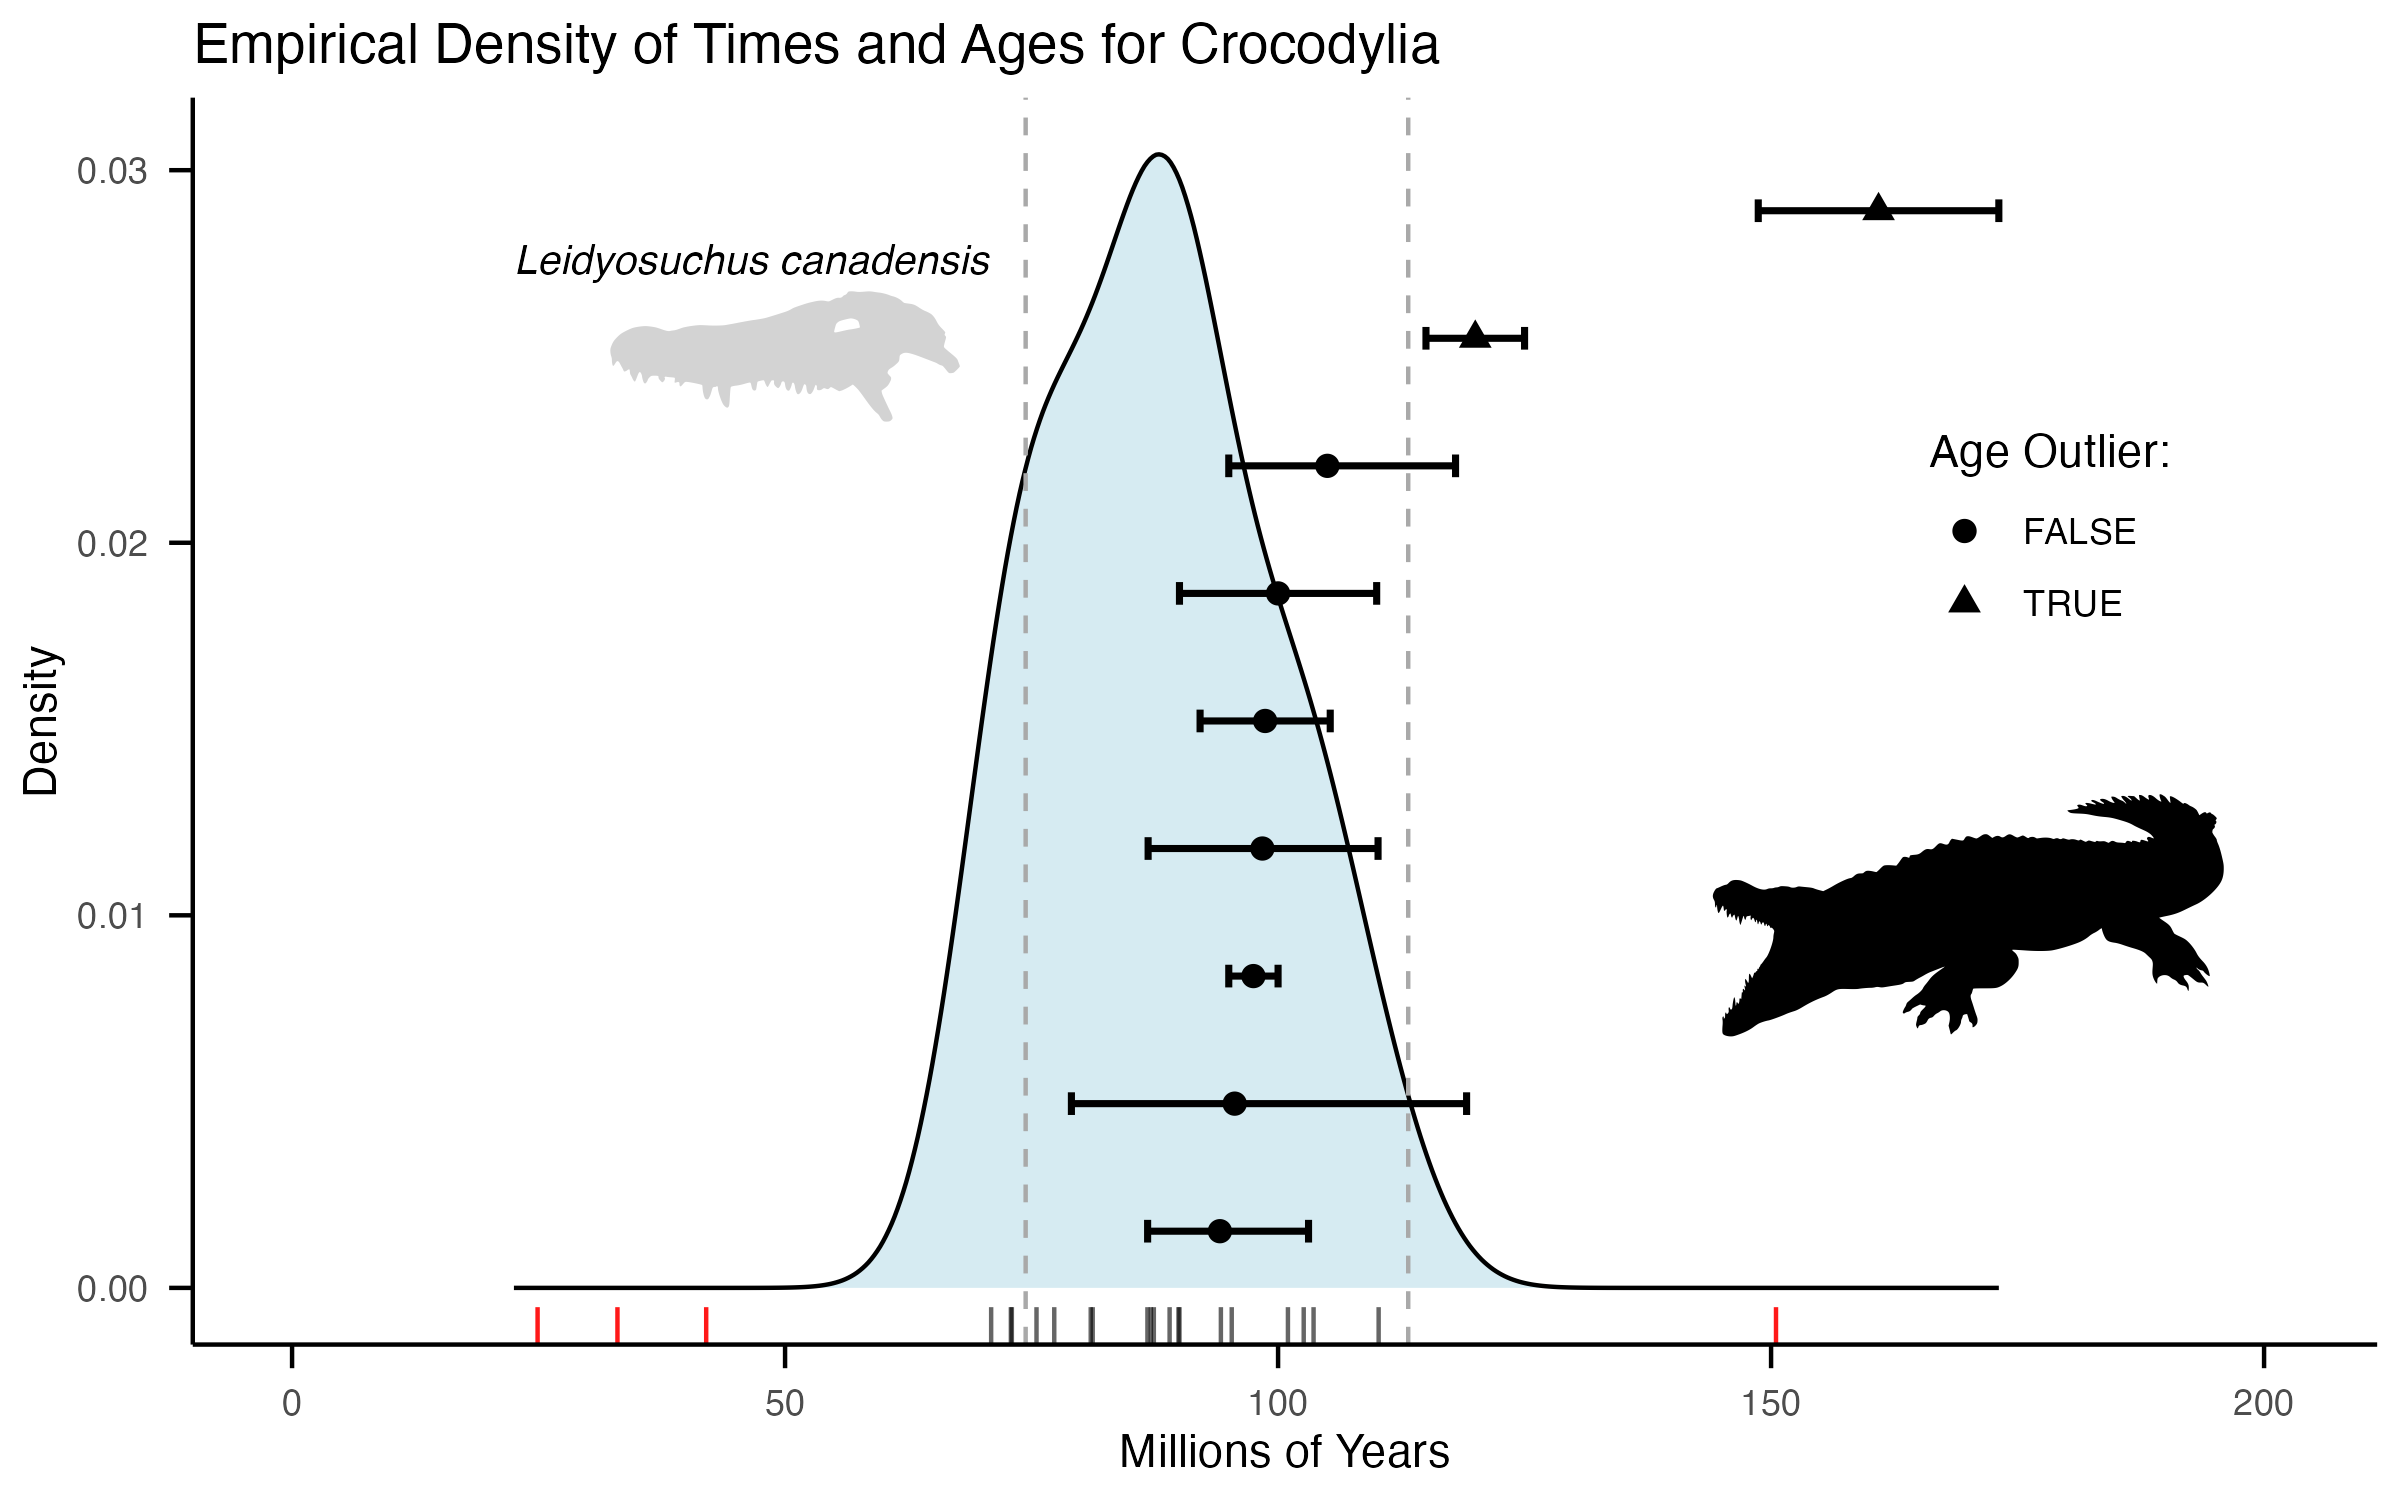
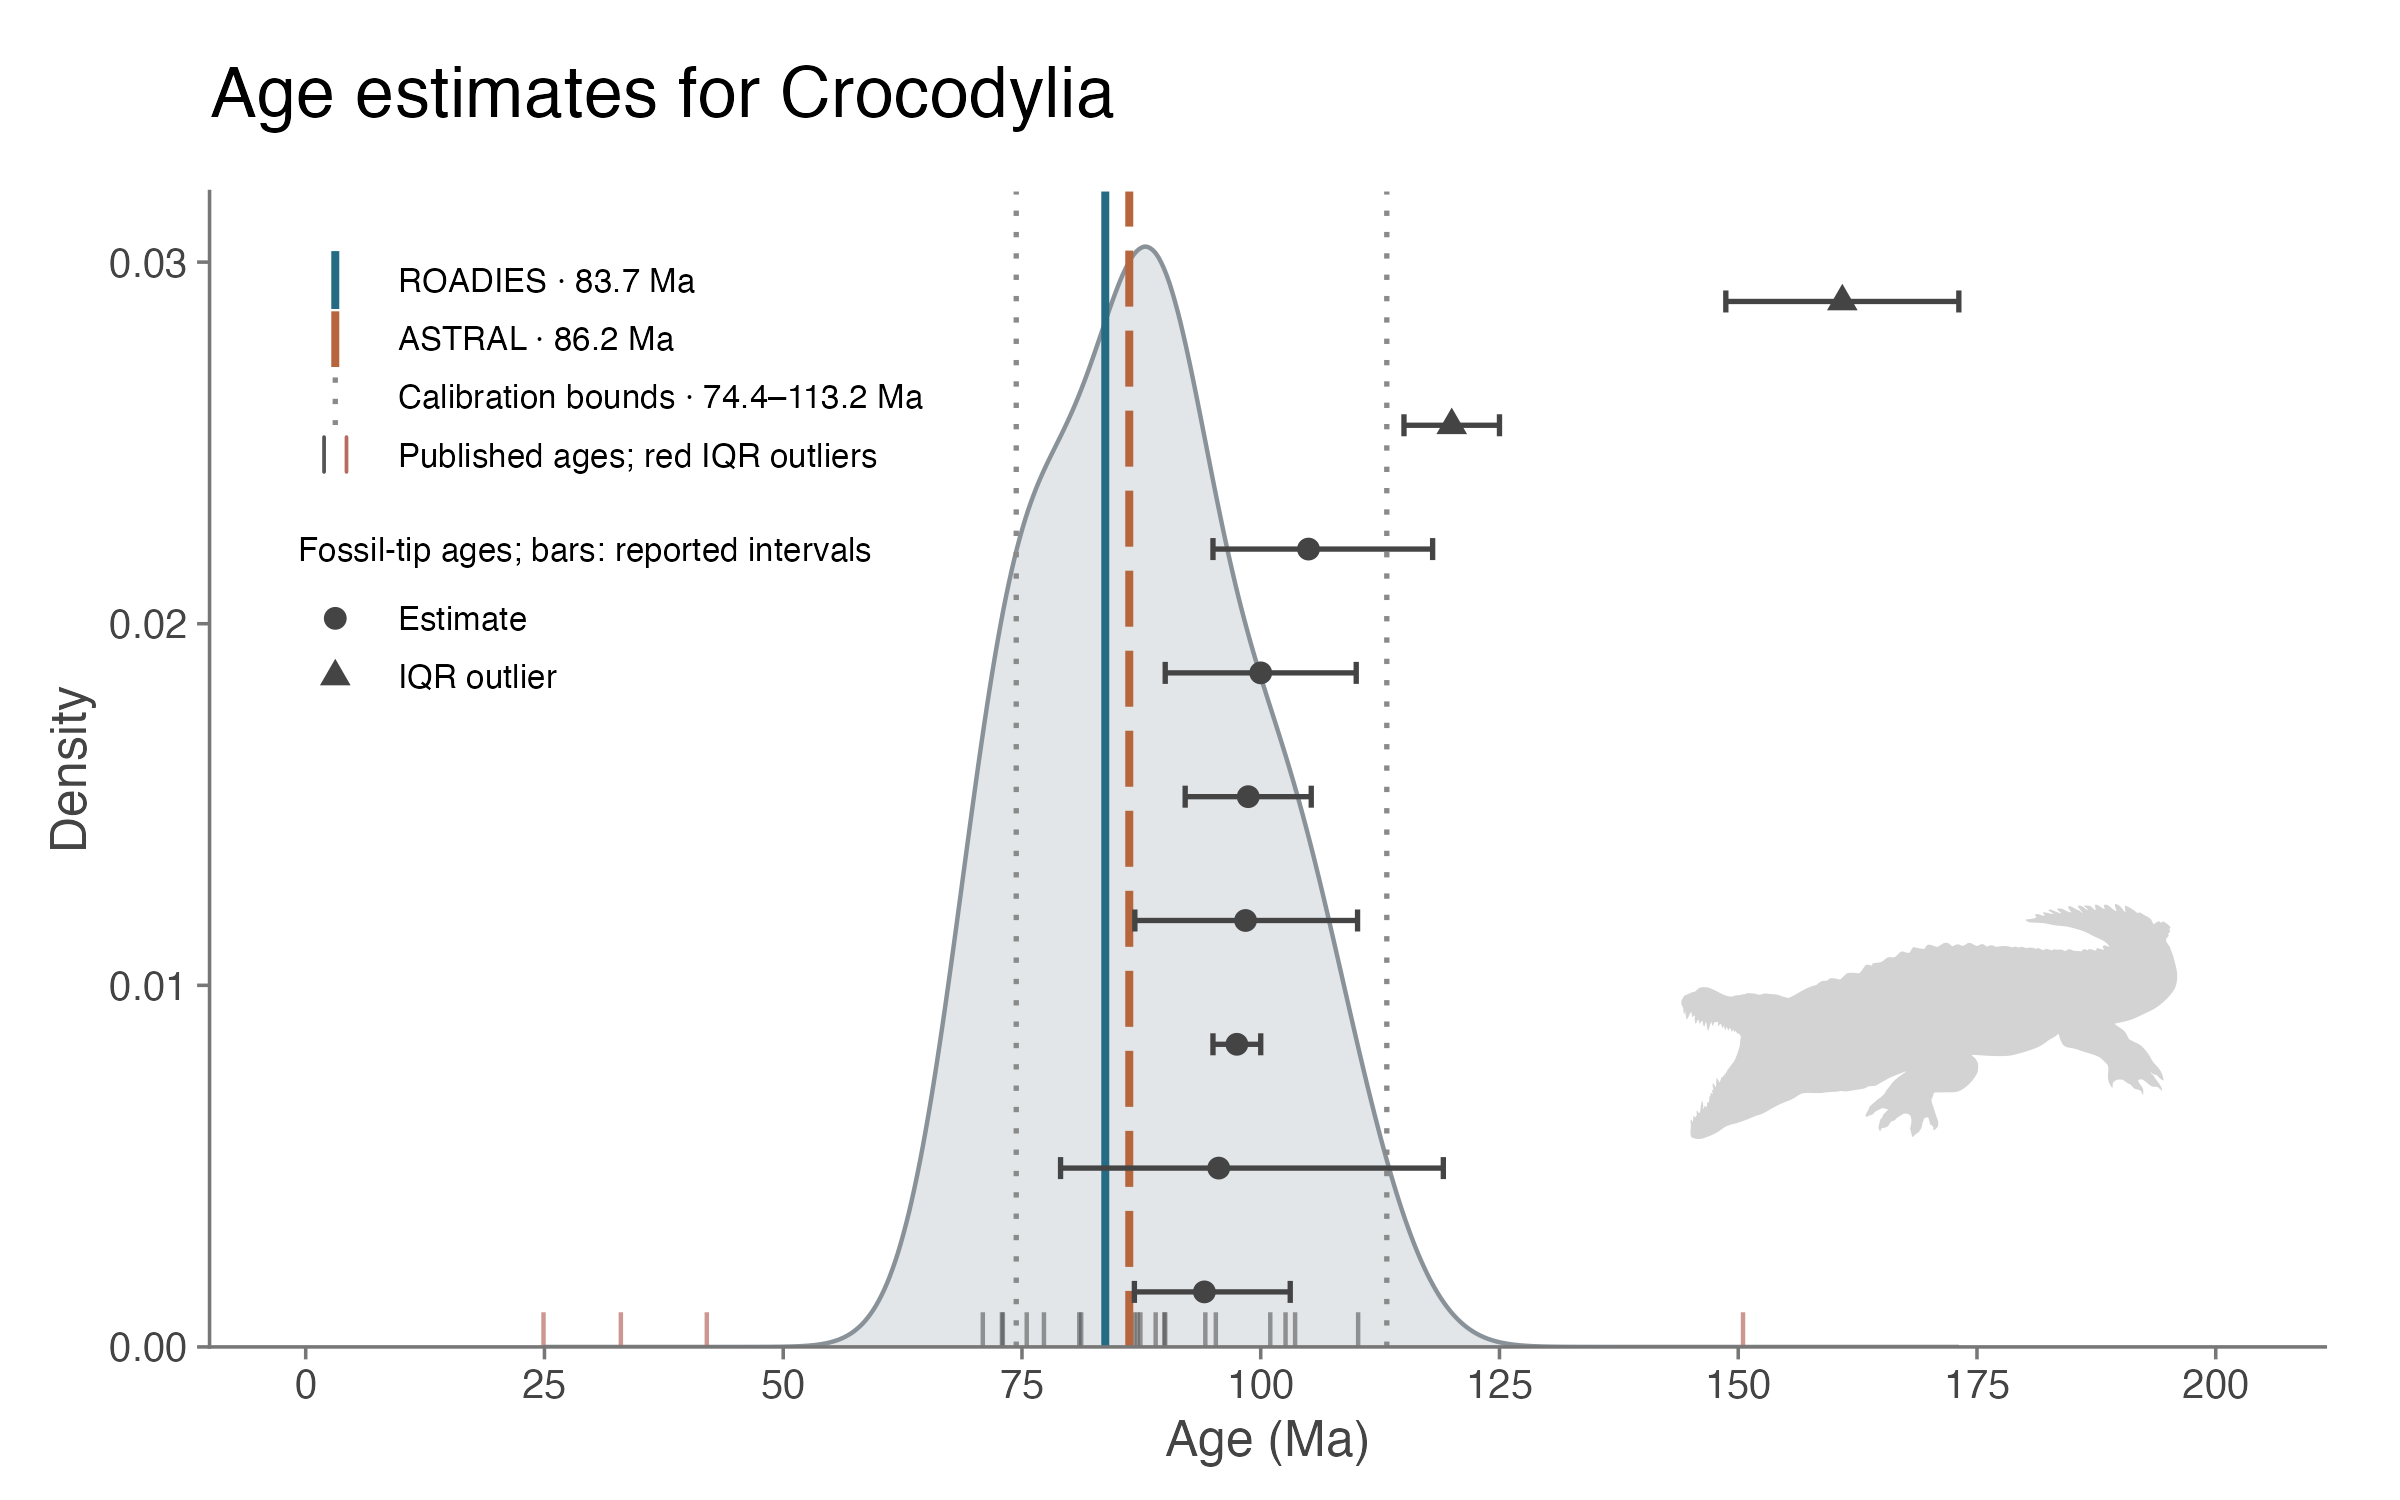
update crocs
terminology

diff --git a/calibrations/crocodylia/crocodylia.md b/calibrations/crocodylia/crocodylia.md
@@ -1,10 +1,13 @@
 # Crocodylia calibrations
 
-The root node (**731:** Crocodylia), separating _Alligator_ and _Gavialis_, generally dates to the Late/Upper Cretaceous, ~90Ma, based on fossil and molecular estimates (see below). While there is an extensive crocodilian fossil record – both stem and crown – dating back to the Triassic ([Stockdale and Benton 2021](https://doi.org/10.1038/s42003-020-01561-5), [Payne et al. 2024](https://doi.org/10.1038/s41559-023-02244-0)), there are only a few well-constrained fossils in the vicinity of crown Crocodylia based on recent total-evidence phylogenetic analyses ([Lee and Yates 2018](https://doi.org/10.1098/rspb.2018.1071), [Darlim et al. 2022](https://doi.org/10.1098/rsbl.2021.0603), [Zamora-Vega et al. 2025](https://doi.org/10.1098/rsbl.2025.0238)). We are also able to calibrate **$XXX:** Longirostres based on consensus between these different phylogenetic estimates regarding the oldest-known crown longirostran †_Kentisuchus_, which is confidently placed on the stem of Gavialidae to the exclusion of Crocodylidae.
+The root node (**CAL083:** Crocodylia), separating _Alligator_ and _Gavialis_, generally dates to the Late/Upper Cretaceous, ~90Ma, based on fossil and molecular estimates (see below). While there is an extensive crocodilian fossil record – both stem and crown – dating back to the Triassic ([Stockdale and Benton 2021](https://doi.org/10.1038/s42003-020-01561-5), [Payne et al. 2024](https://doi.org/10.1038/s41559-023-02244-0)), there are only a few well-constrained fossils in the vicinity of crown Crocodylia based on recent total-evidence phylogenetic analyses ([Lee and Yates 2018](https://doi.org/10.1098/rspb.2018.1071), [Darlim et al. 2022](https://doi.org/10.1098/rsbl.2021.0603), [Zamora-Vega et al. 2025](https://doi.org/10.1098/rsbl.2025.0238)). With expanded taxon sampling, we could also calibrate **CAL $X:** Longirostres based on consensus between these different phylogenetic estimates regarding the oldest-known crown longirostran †_Kentisuchus_, which is confidently placed on the stem of Gavialidae to the exclusion of Crocodylidae.
+
+CAL identifiers refer to records in the [master calibration list](../master_calibrations.csv). Tree mappings give the corresponding node numbers in [ROADIES v0.0.0](../../trees/roadies_v1.1.16b.numbers.nwk) (`roadies_v1.1.16b`) and [ASTRAL v0.1.1](../../trees/astralpro.l6p1.numbers.nwk) (`astralpro.l6p1`).
 
 ### Calibrations:
 
-**Node 731:** Crocodylia | 74.4–113.2Ma\
+**CAL083:** Crocodylia | 74.4–113.2Ma\
+**Tree mapping:** ROADIES node 731; ASTRAL node 993\
 **Node calibrated:** The most recent common ancestor of Gavialoidea (_Gavialis gangeticus_: Gavialidae) and Alligatoroidea (_Alligator mississippiensis_: Alligatoridae)\
 **Fossil taxa:** †_Leidyosuchus canadensis_ (NMC 338, 1551) from the Dinosaur Park Formation, Alberta, Canada ([Lambe, 1907](https://www.biodiversitylibrary.org/page/10884799))\
 **Minimum age:** Late Cretaceous (Campanian), 74.4Ma\
@@ -14,21 +17,25 @@ The root node (**731:** Crocodylia), separating _Alligator_ and _Gavialis_, gene
 **Discussion:** Other time-scaled parsimony analyses such as [Salas-Gismondi et al. 2019](https://www.tandfonline.com/doi/full/10.1080/14772019.2018.1495275) also support a Late Cretaceous origin for Crocodylia and a crown placement of †_Leidyosuchus_, but do not report their exact age estimates and were therefore not considered
 
 
-### New calibrations for ASTRAL
+### Future calibrations for larger tree
 
-**Node $XXX:** Longirostres | 51.5–113.2Ma\
+**CAL $X:** Longirostres | 51.5–113.2Ma\
 **Node calibrated:** The most recent common ancestor of Gavialidae (_Gavialis gangeticus_) and Crocodylidae (_Crocodylus niloticus_)\
 **Fossil taxa:** †_Kentisuchus spenceri_ (NHM 19633) from the London Clay, Isle of Sheppey, England ([Buckland 1836](https://doi.org/10.5962/bhl.title.125523))\
 **Minimum age:** Early Eocene (Ypresian), 51.5Ma\
 **Minimum justification:** The London Clay (Eocene: Ypresian) was deposited no later than 51.5Ma ([Brochu 2007](https://doi.org/10.1111/j.1475-4983.2007.00679.x), [Rayner et al. 2009](https://www.researchgate.net/publication/289335539_London_Clay_Fossils_of_Kent_and_Essex))\
 **Maximum age:** Early Cretaceous (Aptian–Albian), 113.2Ma\
 **Maximum justification:** We retain a conservative maximum at the Aptian-Albian boundary (113.2Ma), as the lower 95% CI of both timetrees and total-evidence estimates is 107Ma and 108Ma, respectively, based on the density of stem crocodylians and absence of any crown members in the early Cretaceous ([Rio and Mannion 2021](https://doi.org/10.7717/peerj.12094), [Walter et al. 2025](https://doi.org/10.1038/s42003-025-07653-4); but see [Groh et al. 2022](https://doi.org/10.1111/pala.12589) for a potentially older time-scale)\
-**Discussion:** The taxon †_Kentisuchus_ is recovered in crown Longirostres by numerous morphological ([Rio and Mannion 2021](https://doi.org/10.7717/peerj.12094), [Groh et al. 2022](https://doi.org/10.1111/pala.12589), [Walter et al. 2025](https://doi.org/10.1038/s42003-025-07653-4)) and total-evidence phylogenies ([Lee and Yates 2018](https://doi.org/10.1098/rspb.2018.1071), [Darlim et al. 2022](https://doi.org/10.1098/rsbl.2021.0603), [Zamora-Vega et al. 2025](https://doi.org/10.1098/rsbl.2025.0238)). An older possible candidate is †_Eothoracosaurus mississippiensis_ (MSU 3293) from the Cretaceous Ripley and Coon Creek Tongue Formations (Campanian–Maastrichtian, 72.2Ma) from Mississippi and Tennessee, USA, for which the original description and several subsequent morphological and total-evidence phylogenetic analyses place eothoracosaurs on the stem of Gavalidae ([Brochu 2004](https://doi.org/10.1671/0272-4634(2004)024[0610:ANLCGC]2.0.CO;2), [Wilberg et al. 2019](https://doi.org/10.1038/s41598-018-36795-1), [Rio and Mannion 2021](https://doi.org/10.7717/peerj.12094), [Groh et al. 2022](https://doi.org/10.1111/pala.12589), [Walter et al. 2025](https://doi.org/10.1038/s42003-025-07653-4). However, several total-evidence analyses suggest that morphological similarity between thoracosaurs and gavialoids is convergent and that these topologies are driven by homoplasy, with thoracosaurs actually representing stem crocodylians ([Lee and Yates 2018](https://doi.org/10.1098/rspb.2018.1071), [Darlim et al. 2022](https://doi.org/10.1098/rsbl.2021.0603), [Zamora-Vega et al. 2025](https://doi.org/10.1098/rsbl.2025.0238)). Correspondingly, we prefer the more conservative minimum age based on †_Kentisuchus_ along with a more conservative maximum age in the early Cretaceous to allow for alternative resolutions and timescales regarding thoracosaurs.
+**Discussion:** The taxon †_Kentisuchus_ is recovered in crown Longirostres by numerous morphological ([Rio and Mannion 2021](https://doi.org/10.7717/peerj.12094), [Groh et al. 2022](https://doi.org/10.1111/pala.12589), [Walter et al. 2025](https://doi.org/10.1038/s42003-025-07653-4)) and total-evidence phylogenies ([Lee and Yates 2018](https://doi.org/10.1098/rspb.2018.1071), [Darlim et al. 2022](https://doi.org/10.1098/rsbl.2021.0603), [Zamora-Vega et al. 2025](https://doi.org/10.1098/rsbl.2025.0238)). An older possible candidate is †_Eothoracosaurus mississippiensis_ (MSU 3293) from the Cretaceous Ripley and Coon Creek Tongue Formations (Campanian–Maastrichtian, 72.2Ma) from Mississippi and Tennessee, USA, for which the original description and several subsequent morphological and total-evidence phylogenetic analyses place eothoracosaurs on the stem of Gavialidae ([Brochu 2004](https://doi.org/10.1671/0272-4634(2004)024[0610:ANLCGC]2.0.CO;2), [Wilberg et al. 2019](https://doi.org/10.1038/s41598-018-36795-1), [Rio and Mannion 2021](https://doi.org/10.7717/peerj.12094), [Groh et al. 2022](https://doi.org/10.1111/pala.12589), [Walter et al. 2025](https://doi.org/10.1038/s42003-025-07653-4)). However, several total-evidence analyses suggest that morphological similarity between thoracosaurs and gavialoids is convergent and that these topologies are driven by homoplasy, with thoracosaurs actually representing stem crocodylians ([Lee and Yates 2018](https://doi.org/10.1098/rspb.2018.1071), [Darlim et al. 2022](https://doi.org/10.1098/rsbl.2021.0603), [Zamora-Vega et al. 2025](https://doi.org/10.1098/rsbl.2025.0238)). Correspondingly, we prefer the more conservative minimum age based on †_Kentisuchus_ along with a more conservative maximum age in the early Cretaceous to allow for alternative resolutions and timescales regarding thoracosaurs.
 
 
 ### Likelihood checkpoints
 
+<<<<<<< Updated upstream
 TimeTree.org estimates a median age of 87Ma (73–101Ma) from 18 studies between 2004 and 2018. To this, we added 5 additional studies from 2006–2021. Excluding outliers (1.5 * IQR; in red, below), this yields a median of 87Ma with a range from 71–110Ma. These data are given in crocodylia_timetree.csv. To this, we can compare 9 estimates from 8 time-calibrated studies with fossil tips from 2017–2026 to estimate a range of 90–110Ma (Median 98Ma) based on the average ages and CIs. This excludes two outlier ages (as triangles, below), one from Godoy et al. [2019](https://doi.org/10.1186/s12862-019-1466-4) and the Groh et al. [(2022)](https://doi.org/10.1111/pala.12589) FBD analysis, which reports dramatically different topologies and timescales for Gavialoidea. These data are recorded in crocodylia_calibrations.csv.
+=======
+TimeTree.org estimates a median age of 87Ma (73–101Ma) from 18 studies between 2004 and 2018. To this, we added 5 additional studies from 2006–2021. Excluding outliers (1.5 * IQR; in red, below), this yields a median of 87Ma with a range from 71–110Ma. These data are given in crocodylia_timetree.csv. To this, we can compare 9 estimates from 9 time-calibrated studies with fossil tips from 2017–2026. After excluding two outliers, the median point estimate is 98.41Ma, and the mean lower and upper reported interval endpoints are 89.25Ma and 109.38Ma, respectively; these averages are not a pooled confidence interval. The excluded estimates are the two outlier ages (as triangles, below), one from Godoy et al. 2019 and the Groh et al. 2022 FBD analysis, which reports dramatically different topologies and timescales for Gavialoidea. These data are recorded in crocodylia_calibrations.csv.
+>>>>>>> Stashed changes
 
 ![crocodylia likelihood checkpoints](crocodylia_calibrations.png)
 
